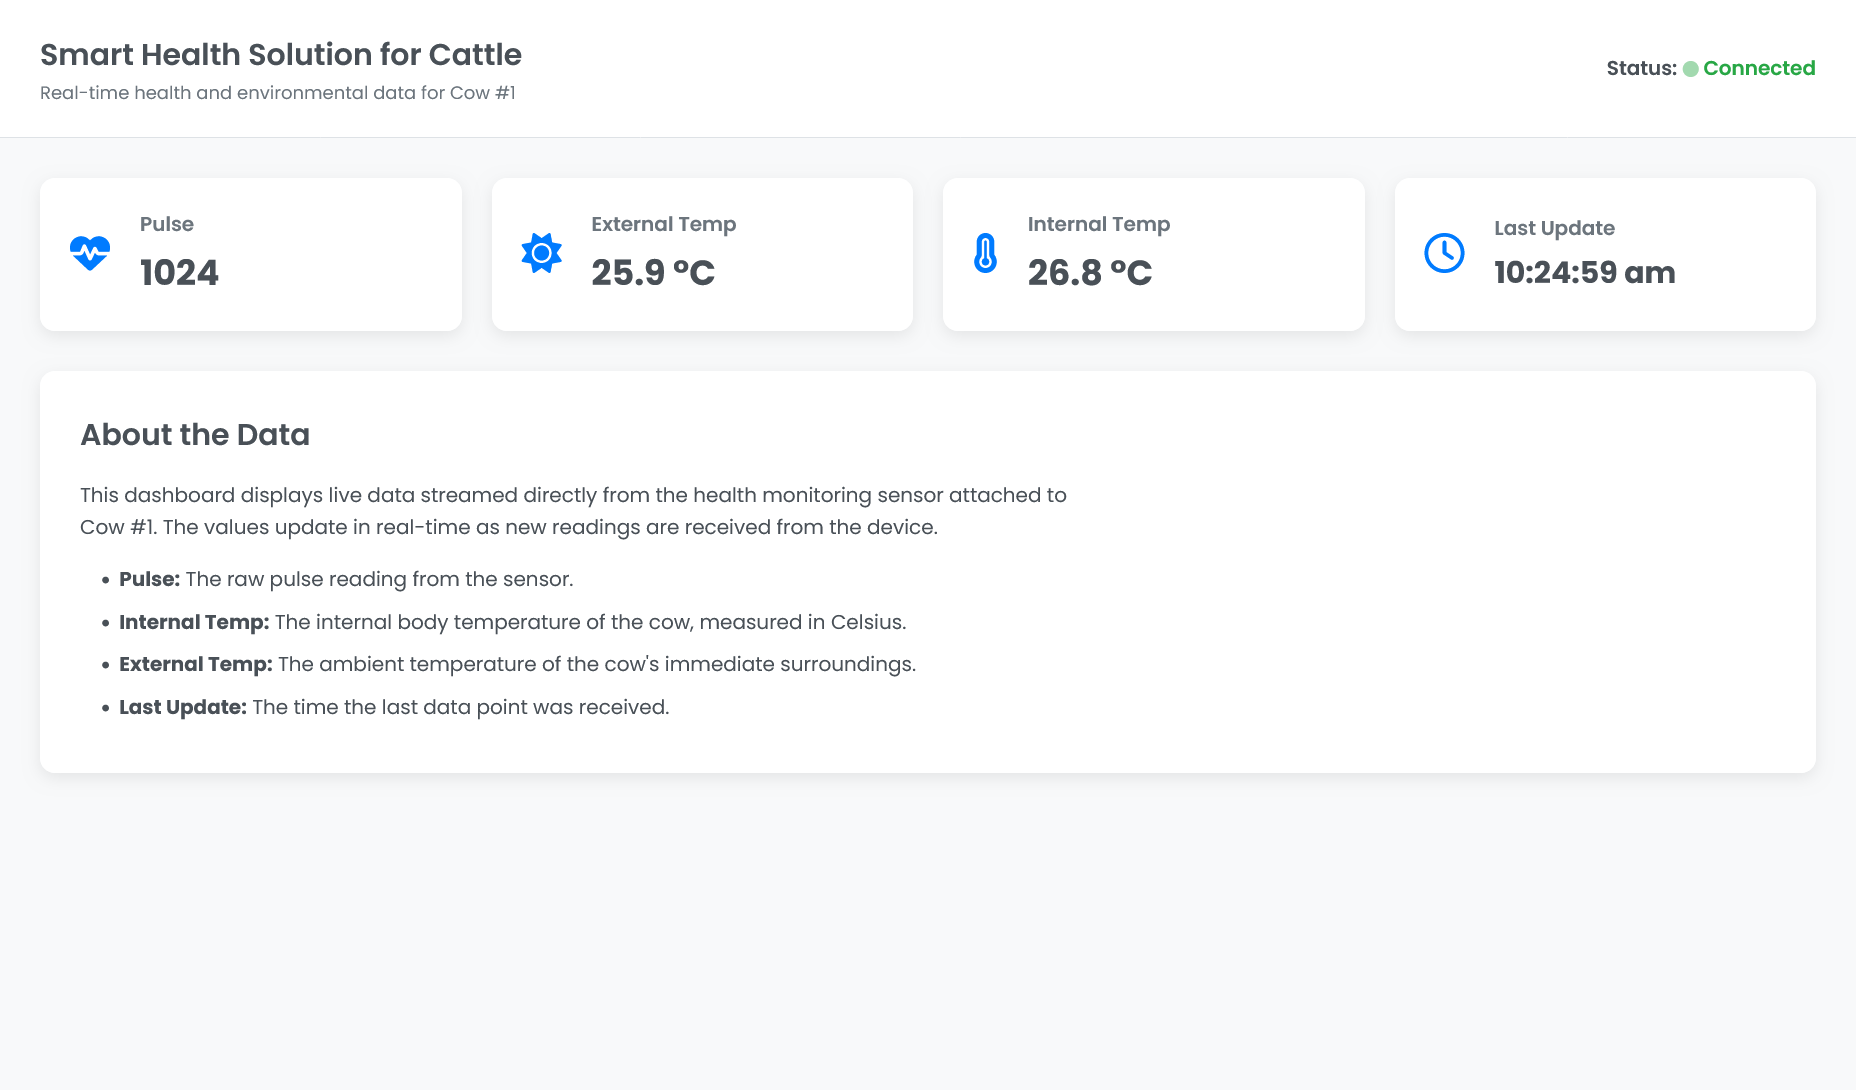
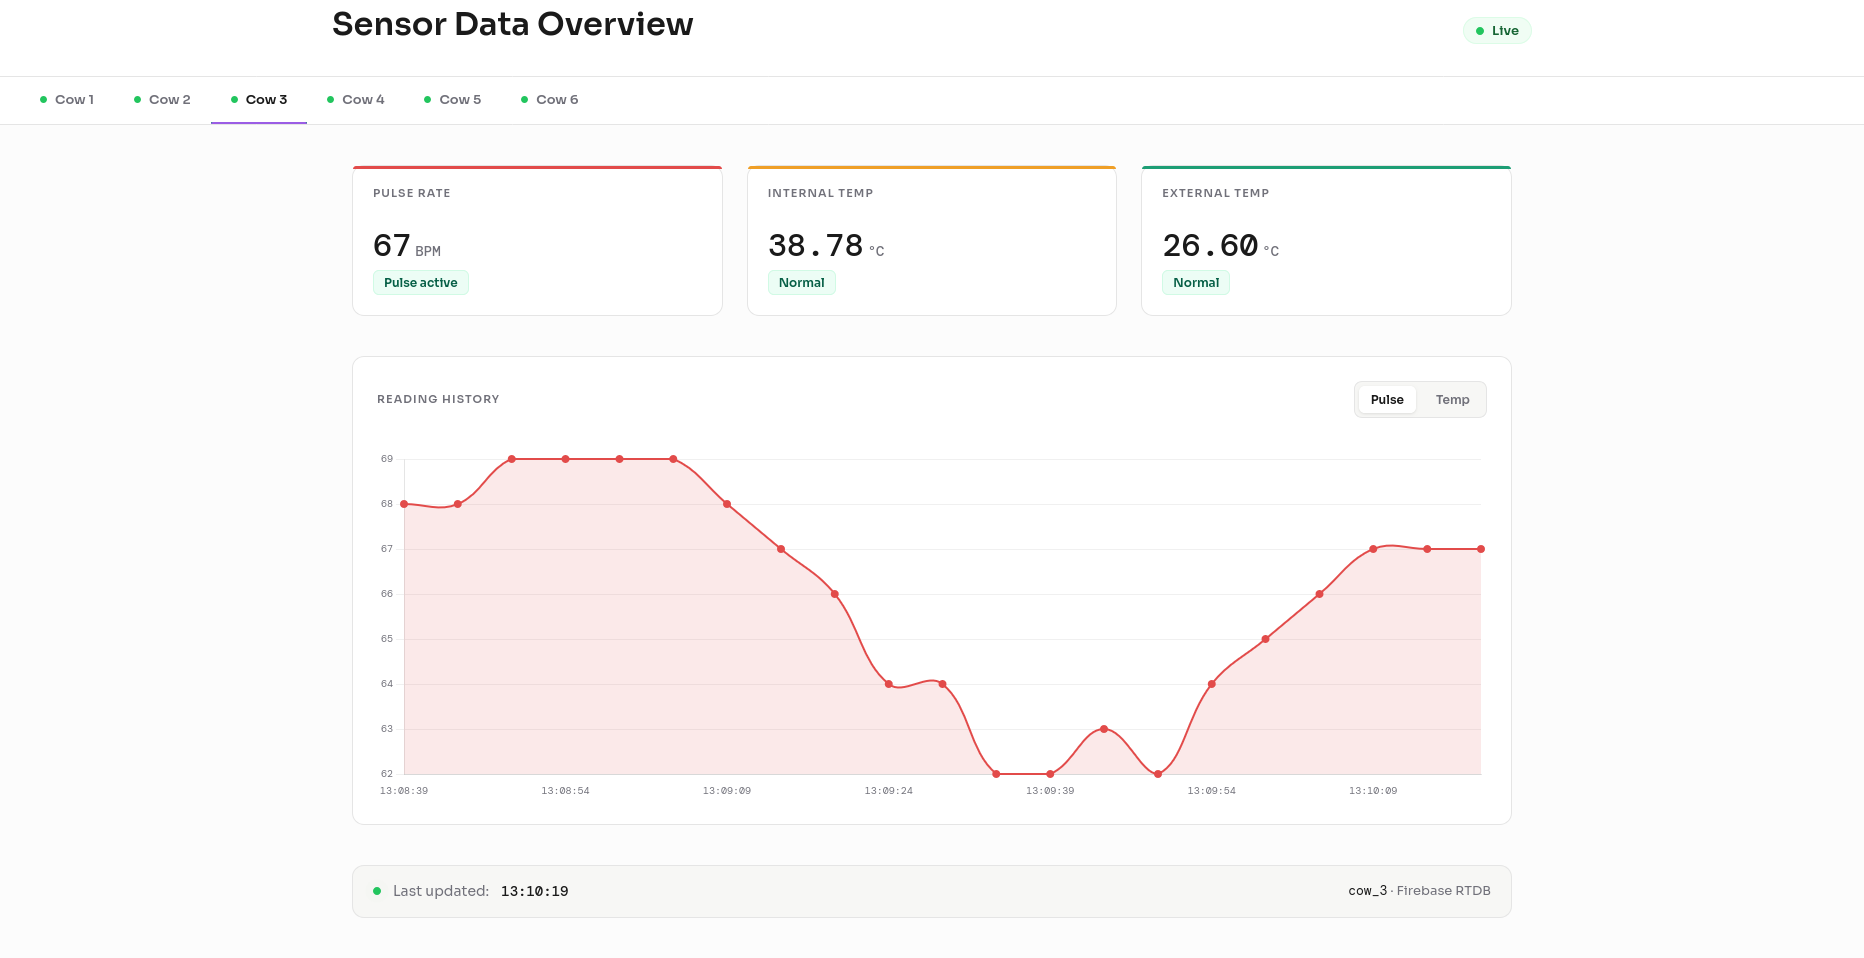
updated the index.html add 4 new simulated tabs for cow sensor data

diff --git a/public/script.js b/public/script.js
@@ -10,9 +10,12 @@
    CONFIGURATION — edit this list to add/remove devices
 ===================================================== */
 const DEVICES = [
-  { id: 'cow_1', label: 'Cow 1' },
-  { id: 'cow_2', label: 'Cow 2' },
-  { id: 'cow_3', label: 'Cow 3' },
+  { id: 'cow_1', label: 'Cow 1', mode: 'firebase' },
+  { id: 'cow_2', label: 'Cow 2', mode: 'firebase' },
+  { id: 'cow_3', label: 'Cow 3', mode: 'simulated', demoLabel: 'Healthy Baseline' },
+  { id: 'cow_4', label: 'Cow 4', mode: 'simulated', demoLabel: 'Elevated Temp Alert' },
+  { id: 'cow_5', label: 'Cow 5', mode: 'simulated', demoLabel: 'Low Temp Warning' },
+  { id: 'cow_6', label: 'Cow 6', mode: 'simulated', demoLabel: 'Active Grazing' },
 ];
 
 // How long (ms) without data before marking a device offline
@@ -157,6 +160,7 @@ function switchTab(id) {
 
   /* Update footer */
   footerDevEl.textContent = id;
+  updateFooterSource(id);
 
   /* Resize chart (needed after display:none → block) */
   const state = deviceState[id];
@@ -184,6 +188,7 @@ const CHART_COLORS = [
 ];
 
 function initChart(deviceId) {
+  if (deviceState[deviceId]?.chart) return;
   const canvas = document.getElementById(`chart-${deviceId}`);
   if (!canvas) return;
 
@@ -475,6 +480,15 @@ function setBadge(el, text, cls) {
 }
 
 /* =====================================================
+   Footer Source Indicator
+===================================================== */
+function updateFooterSource(deviceId) {
+  const footerSourceEl = document.getElementById('footer-source-label');
+  if (!footerSourceEl) return;
+  footerSourceEl.textContent = 'Firebase RTDB';
+}
+
+/* =====================================================
    Online / Offline state
 ===================================================== */
 function markOnline(deviceId) {
@@ -506,12 +520,164 @@ function markOffline(deviceId) {
 }
 
 /* =====================================================
+   DEMO SIMULATION ENGINE (Cows 3, 4, 5 & 6)
+===================================================== */
+const SIMULATION_PROFILES = {
+  cow_3: {
+    name: 'Cow 3',
+    statusDesc: 'Healthy / Normal Baseline',
+    basePulse: 66,
+    pulseAmp: 3,
+    pulseClamp: [62, 70],
+    baseInternalTemp: 38.65,
+    tempAmp: 0.15,
+    tempClamp: [38.45, 38.85], // Cattle normal is 38.3 – 39.4 °C
+    baseExternalTemp: 26.5,
+    extAmp: 0.3,
+    baseDistance: 45,
+    distAmp: 4,
+  },
+  cow_4: {
+    name: 'Cow 4',
+    statusDesc: 'Fever / Elevated Temp (Alert Demo)',
+    basePulse: 92,
+    pulseAmp: 4,
+    pulseClamp: [88, 96],
+    baseInternalTemp: 39.95,
+    tempAmp: 0.20,
+    tempClamp: [39.75, 40.20], // Alert is > 39.4 °C
+    baseExternalTemp: 29.8,
+    extAmp: 0.4,
+    baseDistance: 36,
+    distAmp: 3,
+  },
+  cow_5: {
+    name: 'Cow 5',
+    statusDesc: 'Hypothermia / Low Temp (Warning Demo)',
+    basePulse: 54,
+    pulseAmp: 3,
+    pulseClamp: [50, 58],
+    baseInternalTemp: 37.95,
+    tempAmp: 0.16,
+    tempClamp: [37.75, 38.15], // Warning is < 38.3 °C
+    baseExternalTemp: 21.8,
+    extAmp: 0.3,
+    baseDistance: 50,
+    distAmp: 4,
+  },
+  cow_6: {
+    name: 'Cow 6',
+    statusDesc: 'Active Pasture Grazing (Dynamic Demo)',
+    basePulse: 78,
+    pulseAmp: 6,
+    pulseClamp: [72, 85],
+    baseInternalTemp: 38.90,
+    tempAmp: 0.18,
+    tempClamp: [38.70, 39.10], // Cattle normal is 38.3 – 39.4 °C
+    baseExternalTemp: 27.4,
+    extAmp: 0.4,
+    baseDistance: 55,
+    distAmp: 25,
+  },
+};
+
+function generateSimulatedPoint(deviceId, stepIndex, timestamp) {
+  const profile = SIMULATION_PROFILES[deviceId];
+  if (!profile) return null;
+
+  const t = stepIndex * 0.35;
+  const wave1 = Math.sin(t);
+  const wave2 = Math.cos(t * 0.6);
+
+  // Pulse (BPM)
+  const pulseRaw = profile.basePulse + wave1 * profile.pulseAmp + (wave2 * 0.8) + (Math.random() - 0.5) * 1.0;
+  const pulseBPM = Math.min(profile.pulseClamp[1], Math.max(profile.pulseClamp[0], Math.round(pulseRaw)));
+
+  // Internal Temperature (°C)
+  const tempRaw = profile.baseInternalTemp + wave2 * profile.tempAmp + (wave1 * 0.04) + (Math.random() - 0.5) * 0.03;
+  const internalTemperature = Number(Math.min(profile.tempClamp[1], Math.max(profile.tempClamp[0], tempRaw)).toFixed(2));
+
+  // External Temperature (°C)
+  const extRaw = profile.baseExternalTemp + wave1 * profile.extAmp + (Math.random() - 0.5) * 0.05;
+  const externalTemperature = Number(extRaw.toFixed(2));
+
+  // Distance (cm)
+  const distRaw = profile.baseDistance + Math.sin(t * 0.5) * profile.distAmp + (Math.random() - 0.5) * 2;
+  const distanceCM = Math.max(5, Math.round(distRaw));
+
+  return {
+    pulseBPM,
+    internalTemperature,
+    externalTemperature,
+    distanceCM,
+    timestamp: timestamp || Date.now()
+  };
+}
+
+function seedSimulatedHistory(deviceId) {
+  const cd = deviceState[deviceId].chartData;
+  cd.labels = [];
+  cd.pulse = [];
+  cd.internalTemp = [];
+  cd.externalTemp = [];
+
+  const pointsCount = 20;
+  const intervalMs = 5000;
+  const now = Date.now();
+
+  for (let i = pointsCount - 1; i >= 0; i--) {
+    const ptTime = now - (i * intervalMs);
+    const reading = generateSimulatedPoint(deviceId, pointsCount - i, ptTime);
+    pushToHistory(deviceId, reading);
+  }
+
+  const latest = generateSimulatedPoint(deviceId, pointsCount, now);
+  deviceState[deviceId].lastSeen = now;
+  updateCards(deviceId, latest);
+  markOnline(deviceId);
+}
+
+let simulationStep = 25;
+let simulationIntervalId = null;
+
+function startSimulationTicker() {
+  if (simulationIntervalId) return;
+
+  // Initialize history and cards for each simulated device
+  DEVICES.filter(d => d.mode === 'simulated').forEach(dev => {
+    seedSimulatedHistory(dev.id);
+  });
+
+  simulationIntervalId = setInterval(() => {
+    const now = Date.now();
+    simulationStep++;
+
+    DEVICES.filter(d => d.mode === 'simulated').forEach(dev => {
+      const reading = generateSimulatedPoint(dev.id, simulationStep, now);
+      deviceState[dev.id].lastSeen = now;
+
+      pushToHistory(dev.id, reading);
+      updateCards(dev.id, reading);
+      markOnline(dev.id);
+
+      if (dev.id === activeDeviceId) {
+        timestampEl.textContent = new Date(now).toLocaleTimeString('en-GB', {
+          hour12: false, hour: '2-digit', minute: '2-digit', second: '2-digit'
+        });
+      }
+    });
+  }, 5000);
+}
+
+/* =====================================================
    Offline Watchdog — check every 15 s
 ===================================================== */
 function startOfflineWatchdog() {
   setInterval(() => {
     const now = Date.now();
-    DEVICES.forEach(({ id }) => {
+    DEVICES.forEach(({ id, mode }) => {
+      // Only monitor real hardware devices for timeout
+      if (mode === 'simulated') return;
       const state = deviceState[id];
       if (state.lastSeen !== null && (now - state.lastSeen) > OFFLINE_THRESHOLD_MS) {
         markOffline(id);
@@ -523,26 +689,41 @@ function startOfflineWatchdog() {
 /* =====================================================
    Bootstrap — initialise all devices
 ===================================================== */
-function bootstrap() {
-  footerDevEl.textContent = activeDeviceId;
+let bootstrapped = false;
+let firebaseAttached = false;
 
-  DEVICES.forEach(({ id }) => {
-    initChart(id);
-    attachRtdbListener(id); // history is built live from RTDB stream
+function bootstrap() {
+  if (bootstrapped) return;
+  bootstrapped = true;
+
+  footerDevEl.textContent = activeDeviceId;
+  updateFooterSource(activeDeviceId);
+
+  DEVICES.forEach(device => {
+    initChart(device.id);
   });
 
   startOfflineWatchdog();
+  startSimulationTicker();
+}
+
+function attachFirebaseDevices() {
+  if (firebaseAttached) return;
+  firebaseAttached = true;
+
+  DEVICES.filter(d => d.mode === 'firebase').forEach(({ id }) => {
+    attachRtdbListener(id);
+  });
 }
 
 /* =====================================================
-   Auth Gate — sign in anonymously then start the app
-   (required if Firebase RTDB rules use auth != null)
+   Auth Gate — sign in anonymously then attach Firebase
 ===================================================== */
 auth.onAuthStateChanged(user => {
   if (user) {
     console.log('✅ Firebase Auth: signed in as', user.uid, '(anonymous:', user.isAnonymous, ')');
-    // Signed in — safe to attach Firebase listeners
     bootstrap();
+    attachFirebaseDevices();
   } else {
     console.log('Firebase Auth: no user session yet, waiting for signInAnonymously...');
   }
@@ -550,7 +731,11 @@ auth.onAuthStateChanged(user => {
 
 // Trigger anonymous sign-in
 auth.signInAnonymously()
-  .then(() => console.log('✅ signInAnonymously() succeeded.'))
+  .then(() => {
+    console.log('✅ signInAnonymously() succeeded.');
+    bootstrap();
+    attachFirebaseDevices();
+  })
   .catch(err => {
     console.error('❌ Firebase anonymous auth FAILED:', err.code, err.message);
     if (err.code === 'auth/operation-not-allowed') {
@@ -558,6 +743,9 @@ auth.signInAnonymously()
         'Go to Authentication → Sign-in method → Enable Anonymous.');
     }
     // Auth is disabled or blocked — fall back to unauthenticated listeners
-    // (works if RTDB rules allow public reads)
     bootstrap();
+    attachFirebaseDevices();
   });
+
+// Bootstrap UI, charts, and simulation immediately
+bootstrap();

diff --git a/public/index.html b/public/index.html
@@ -52,7 +52,7 @@
         Last updated: <span id="timestamp-val" class="mono">—</span>
       </div>
       <div class="footer-right">
-        <span id="footer-device-label" class="mono">—</span> · Firebase RTDB
+        <span id="footer-device-label" class="mono">—</span> · <span id="footer-source-label">Firebase RTDB</span>
       </div>
     </div>
   </footer>
